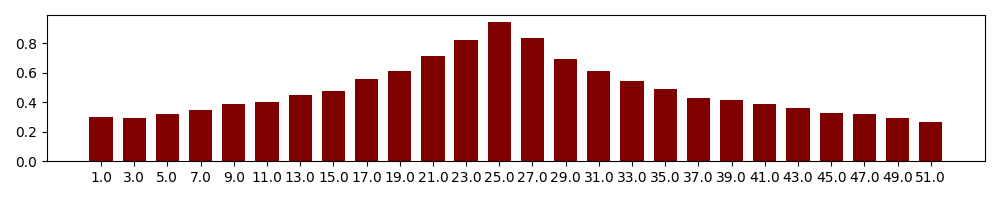
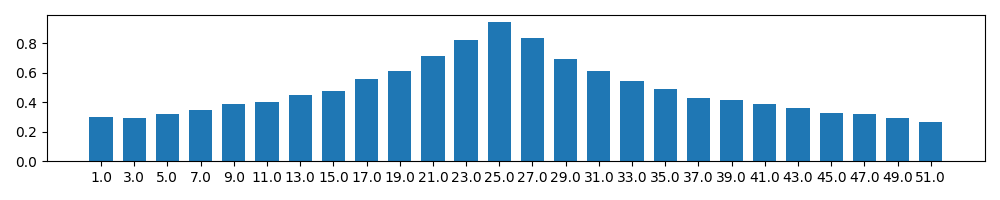
Bugfixes; Adding --border option

Changed region(s): [[0.062, 0.09, 0.961, 0.81]]

diff --git a/patas/graphics.py b/patas/graphics.py
@@ -46,10 +46,11 @@ def get_size(size):
 def get_color(color):
     
     if color is None:
-        return 'maroon'
-    else:
-        from matplotlib.colors import to_rgba
-        return to_rgba(color if color[0] == '#' else '#' + color)
+        return None
+    
+    from matplotlib.colors import to_rgba
+
+    return to_rgba(color if color[0] == '#' else '#' + color)
 
 
 def get_width(width):
@@ -84,11 +85,15 @@ def find_column(headers, column_name):
     return np.where(headers == column_name)[0][0]
 
 
-def change_column(data, column_idx, change_function, name, context):
+def change_column(data, column_idx, change_function, name, context, add_f_string=True):
 
     if change_function:
-        change_function = compile('f"{' + change_function + '}"', name, 'eval')
+        
+        program = 'f"{' + change_function + '}"' if add_f_string else change_function
+        change_function = compile(program, name, 'eval')
+
         for i in range(data.shape[0]):
+
             context['i'] = i
             data[i,column_idx] = eval(change_function, context)
 
@@ -135,7 +140,7 @@ def render_heatmap(x_column, y_column, z_column,
 
     change_column(data2, 0, x_change, 'x_change', context)
     change_column(data2, 1, y_change, 'y_change', context)
-    change_column(data2, 2, z_change, 'z_change', context)
+    change_column(data2, 2, z_change, 'z_change', context, False)
 
     # Aggregate the results
     
@@ -234,7 +239,7 @@ def render_bars(x_column, y_column,
                 title, x_label, y_label, 
                 x_change, y_change, y_format, 
                 input_file, output_file, 
-                size, reduce, color, width, horizontal, gridlines, ticks, tick_format,
+                size, reduce, color, width, horizontal, gridlines, ticks, tick_format, border,
                 verbose):
     
     src     = read_csv(input_file)
@@ -257,7 +262,7 @@ def render_bars(x_column, y_column,
     }
 
     change_column(data2, 0, x_change, 'x_change', context)
-    change_column(data2, 1, y_change, 'y_change', context)
+    change_column(data2, 1, y_change, 'y_change', context, False)
 
     # Reduce values
     
@@ -311,17 +316,27 @@ def render_bars(x_column, y_column,
         ax.bar(x_data, y_data, color=get_color(color), width=get_width(width))
     
     if x_label:
-        ax.xlabel(x_label)
+        plt.xlabel(x_label)
     
     if y_label:
-        ax.ylabel(y_label)
+        plt.ylabel(y_label)
     
     if title:
-        ax.title(title)
+        plt.title(title)
     
+    # Hide box
+
+    if border in ['none', 'ticks']:
+        for s in ['top', 'bottom', 'left', 'right']:
+            ax.spines[s].set_visible(False)
+    
+    if border in ['none', 'lines']:
+        ax.xaxis.set_ticks_position('none')
+        ax.yaxis.set_ticks_position('none')
+
     # Format ticks 
 
-    tick_function            = plt.xticks if horizontal else plt.yticks
+    tick_function = plt.xticks if horizontal else plt.yticks
 
     if tick_format:
         tick_format = compile('f"{' + tick_format + '}"', 'tick_format', 'eval')

diff --git a/patas/argparsers.py b/patas/argparsers.py
@@ -483,6 +483,14 @@ def parse_patas_draw_bars(argv):
                         help='width of bar, a value from 0.0 to 1.0',
                         action='store')
 
+    parser.add_argument('--border', 
+                        type=str,
+                        choices=('all', 'ticks', 'lines', 'none'),
+                        dest='border',
+                        metavar='MODE',
+                        help='style of the border, default is all',
+                        action='store')
+
     parser.add_argument('--ticks', 
                         type=int, 
                         dest='ticks',

diff --git a/patas/main.py b/patas/main.py
@@ -264,7 +264,7 @@ def do_draw_bars(argv):
                          args.title, args.x_label, args.y_label, 
                          args.x_change, args.y_change, args.y_format, 
                          args.input_file, args.output_file, 
-                         args.size, args.reduce, args.color, args.width, args.horizontal, args.gridlines, args.ticks, args.tick_format,
+                         args.size, args.reduce, args.color, args.width, args.horizontal, args.gridlines, args.ticks, args.tick_format, args.border,
                          args.verbose)
 
 

diff --git a/README.md b/README.md
@@ -193,13 +193,17 @@ patas draw bars \
     --input test.csv \
     --x-column in_neurons \
     --y-column out_test_acc \
-    --size 13 4 \
-    --width 0.9 \
+    --size 10 2 \
+    --width 0.8 \
     --x-change 'int(float(X[i]))' \
     --gridlines \
-    --color 000011 \
+    --color B00020 \
     --tick-format 't:.2f' \
-    --ticks 5
+    --ticks 5 \
+    --title 'Performance using the function relu' \
+    --x-label 'Neurons' \
+    --y-label 'Accuracy' \
+    --border none
 ```
 
 ![Bars example](https://github.com/diegofps/patas/blob/main/docs/images/bars2.png?raw=true)
